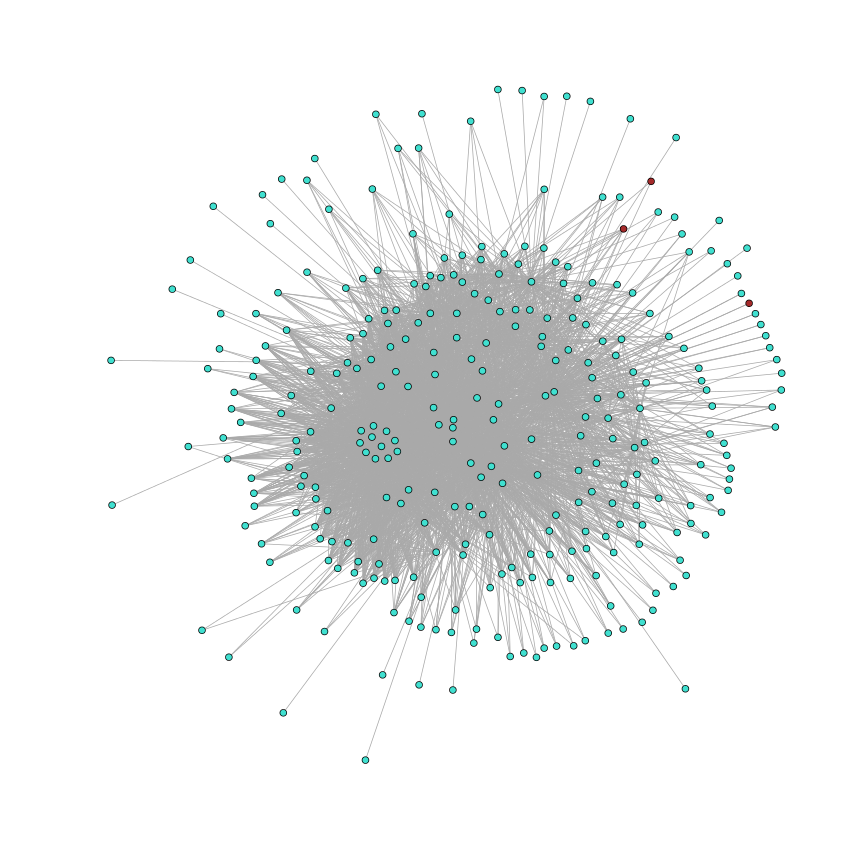
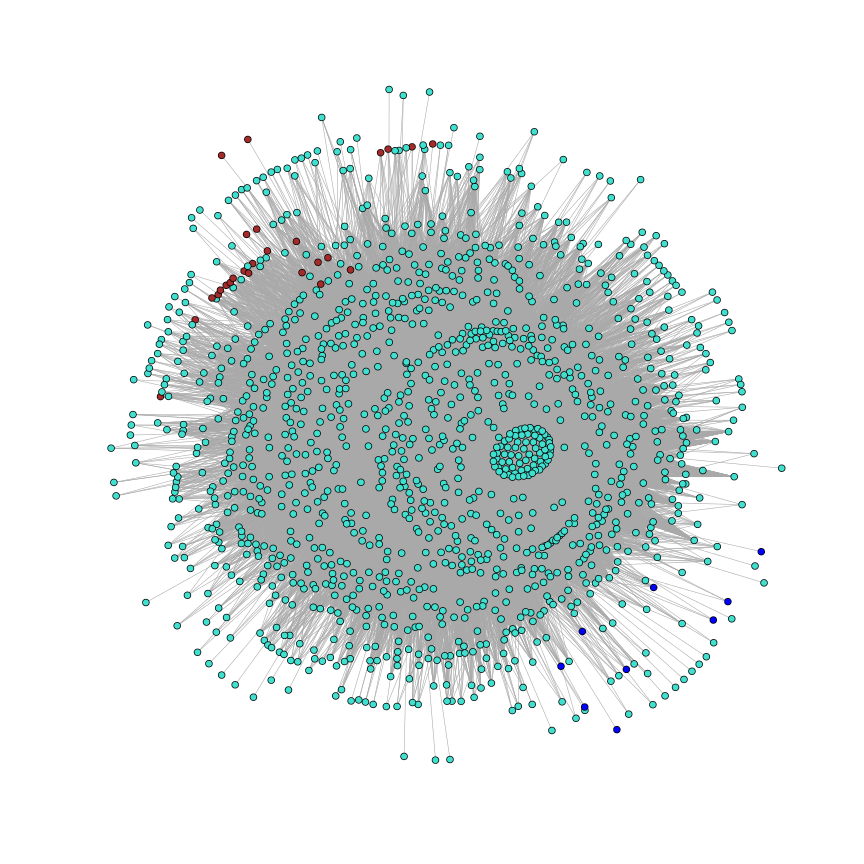
Progress save

Changed region(s): [[0.125, 0.0938, 0.9062, 0.8438], [0.625, 0.0938, 0.6875, 0.125], [0.5, 0.875, 0.5312, 0.9062]]

diff --git a/README.md b/README.md
@@ -15,6 +15,9 @@ Cytoscape into a format supported by igraph.
 # Knitr defaults
 library(knitr)
 opts_chunk$set(fig.width = 12, fig.height = 12, fig.dpi = 96)
+
+# igraph defaults
+igraph.options(vertex.size = 2, vertex.label = NA, edge.width = 0.75)
 ```
 
 
@@ -49,9 +52,8 @@ head(E(g))
 
 ```r
 
-# To speed things up for now, let's limit ourselves to 100 vertices
-num_keep = 2000
-g = g - sample(V(g), length(V(g)) - num_keep)
+# To speed things up for now, let's limit ourselves to 100 vertices num_keep
+# = 6000 g = g - sample(V(g), length(V(g)) - num_keep)
 
 # Let's remove any isolated vertices
 g = g - names(degree(g)[degree(g) == 0])
@@ -61,7 +63,7 @@ g = g - names(degree(g)[degree(g) == 0])
 First let's try plotting the network using the default layout
 
 ```r
-plot(g, vertex.size = 2, vertex.label = NA)
+plot(g)
 ```
 
 ![plot of chunk network_plot_default](figure/network_plot_default.png) 
@@ -73,7 +75,7 @@ Next, let's try plotting the same network but using force-directed layouts.
 ```r
 # Fruchterman-Reingold
 coords = layout.fruchterman.reingold(g, weights = E(g)$weight)
-plot(g, layout = coords, vertex.size = 2, vertex.label = NA)
+plot(g, layout = coords)
 ```
 
 ![plot of chunk network_plot_force](figure/network_plot_force1.png) 
@@ -82,7 +84,7 @@ plot(g, layout = coords, vertex.size = 2, vertex.label = NA)
 
 # Kamada-Kawai
 coords2 = layout.kamada.kawai(g, weights = E(g)$weight)
-plot(g, layout = coords2, vertex.size = 2, vertex.label = NA)
+plot(g, layout = coords2)
 ```
 
 ![plot of chunk network_plot_force](figure/network_plot_force2.png) 
@@ -122,36 +124,70 @@ above.
 
 
 ```r
-# Fruchterman-Reingold
+# Fruchterman-Reingold (standardized)
 coords3 = layout.fruchterman.reingold(g, weights = scaled_weights)
-plot(g, layout = coords3, vertex.size = 2, vertex.label = NA)
+plot(g, layout = coords3)
 ```
 
 ![plot of chunk force_directed_scaled](figure/force_directed_scaled1.png) 
 
 ```r
 
+# Fruchterman-Reingold (standardized * 100)
 coords4 = layout.fruchterman.reingold(g, weights = scaled_weights * 100)
-plot(g, layout = coords4, vertex.size = 2, vertex.label = NA)
+plot(g, layout = coords4)
 ```
 
 ![plot of chunk force_directed_scaled](figure/force_directed_scaled2.png) 
 
 ```r
 
-# Kamada-Kawai
+# Kamada-Kawai (standardized)
 coords5 = layout.kamada.kawai(g, weights = scaled_weights)
-plot(g, layout = coords5, vertex.size = 2, vertex.label = NA)
+plot(g, layout = coords5)
 ```
 
 ![plot of chunk force_directed_scaled](figure/force_directed_scaled3.png) 
 
 ```r
 
+# Kamada-Kawai (standardized * 100)
 coords6 = layout.kamada.kawai(g, weights = scaled_weights * 100)
-plot(g, layout = coords6, vertex.size = 2, vertex.label = NA)
+plot(g, layout = coords6)
 ```
 
 ![plot of chunk force_directed_scaled](figure/force_directed_scaled4.png) 
 
+
+Since it appears that vertices in the smaller modules are often less connected
+to each other (even though the vertices are more similar to each other than
+to vertices from other modules, because the edge weights were not necessarily
+higher, there were filtered out during the thresholding step), let's try down-
+weighting edges that cross modules. This should help to emphasize (somewhat
+artificially) connections within a module.
+
+@TODO: It might be worth scaling the edges based on module membership before
+doing any thresholding: this way intermodules edges can be more heavily
+pruned than intramodule edges.
+
+
+```r
+edge_list = get.edges(g, E(g))
+mod_weights = scaled_weights
+
+for (i in seq(1, length(mod_weights))) {
+    e = get.edges(g, E(g)[i])
+    
+    # Same module
+    if (V(g)[e[1]]$color == V(g)[e[2]]$color) {
+        mod_weights[i] = mod_weights[i] + 10
+    }
+}
+
+# Fruchterman-Reingold (module-adjusted weights)
+coords7 = layout.fruchterman.reingold(g, weights = mod_weights)
+plot(g, layout = coords7)
+```
+
+![plot of chunk modified_edge_weights](figure/modified_edge_weights.png) 
 
